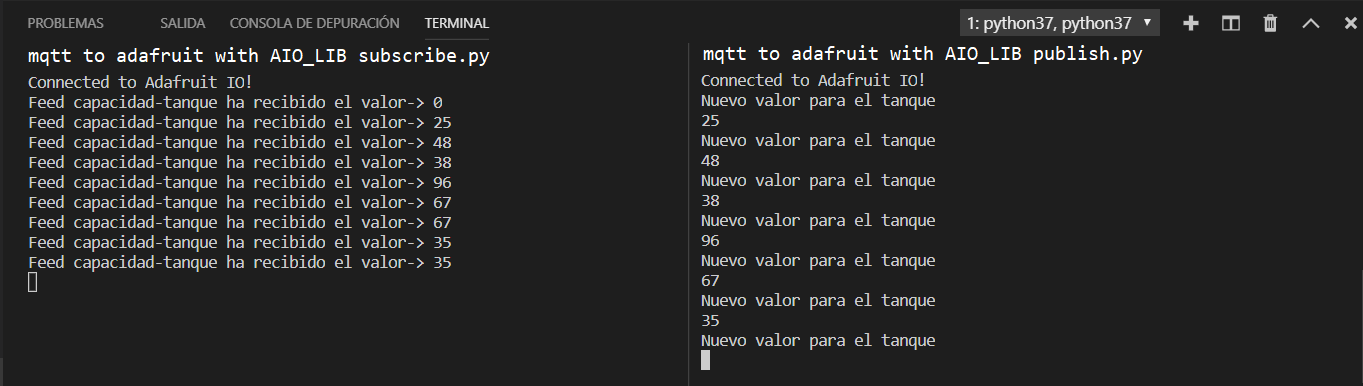
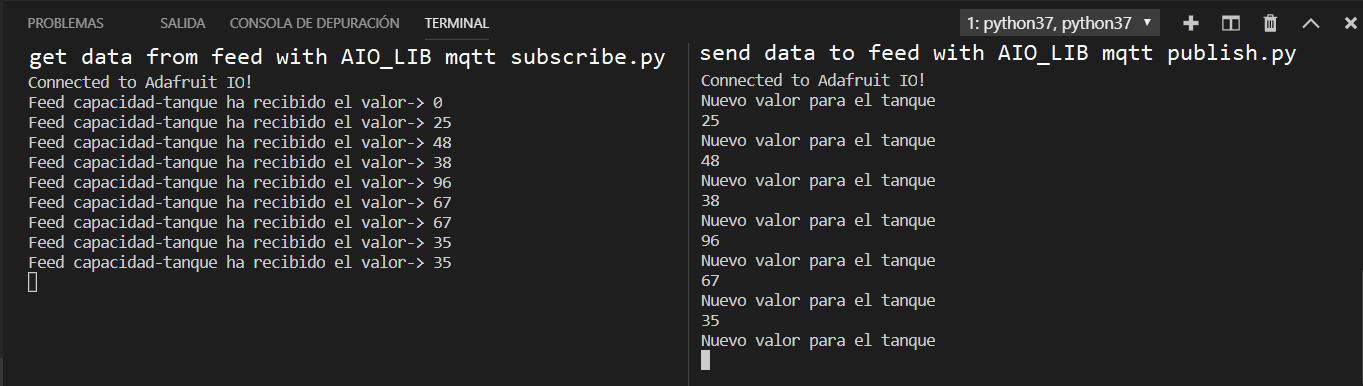
update rename files

Changed region(s): [[0.0, 0.0933, 0.9552, 0.1865]]

diff --git a/Example code/Adafruit Dashboard/ligth control with AIO_LIB Client.py b/Example code/Adafruit Dashboard/ligth control with AIO_LIB Client.py
@@ -14,8 +14,14 @@ from Adafruit_IO import Client
 
 def main():
 	if(len(sys.argv)!=3):
-		sys.stderr.write('Usage: "{0}" $AdafruitIOUsername $AdafruitIOKey\n'.format(sys.argv[0]))
+		sys.stderr.write('Usage: "{0}" $AdafruitIOUsername $AdafruitIOKey $AdafruitIOFeedForStateKey $AdafruitIOFeedForIntensityKey \n'.format(sys.argv[0]))
 		os._exit(1)
+	
+	AdafruitIOFeedUsername=sys.argv[1]
+	AdafruitIOKey=sys.argv[2]# Beware, your Key is Secret!
+	incubatorLigthStateFeedKey=sys.argv[3] # Feed key where data is received
+	incubatorLigthIntensityFeedKey=sys.argv[4] # Feed key where data is received
+
 	# var GPIO pin to show output
 	led_pin = 21
 	
@@ -29,11 +35,11 @@ def main():
 	pwm = GPIO.PWM(led_pin, 60)
 	
 	# Connect to Adafruit IO Server
-	aio=Client(username=sys.argv[1], key=sys.argv[2])
+	aio=Client(username=AdafruitIOFeedUsername, key=AdafruitIOKey)
 
 	# Link to feeds
-	incubatorLigthState=aio.feeds("incubadura0.estado-de-luz")
-	incubatorLigthIntensity=aio.feeds("incubadura0.intensidad-luminica")
+	incubatorLigthStateFeed=aio.feeds(incubatorLigthStateFeedKey)
+	incubatorLigthIntensityFeed=aio.feeds(incubatorLigthIntensityFeedKey)
 	
 	# Control vars
 	dutyValue=0
@@ -43,8 +49,8 @@ def main():
 	try:
 		while True:
 			# get feeds data from Adafruit IO
-			incubatorLigthStateData=aio.receive(incubatorLigthState.key)
-			incubatorLigthIntensityData=aio.receive(incubatorLigthIntensity.key)
+			incubatorLigthStateData=aio.receive(incubatorLigthStateFeed.key)
+			incubatorLigthIntensityData=aio.receive(incubatorLigthIntensityFeed.key)
 		   
 			# check if the received data is new
 			if(incubatorLigthStateData.updated_at!=incubatorLigthStateLastUpdate):
@@ -59,7 +65,7 @@ def main():
 					pwm.stop()
 					
 					# Set on dashboard (publish) ligth intensity in 0
-					aio.send(incubatorLigthIntensity.key, 0)
+					aio.send(incubatorLigthIntensityFeed.key, 0)
 			
 			# check if the received data is new
 			if(incubatorLigthIntensityData.updated_at!=incubatorLigthIntensityLastUpdate):
@@ -80,8 +86,8 @@ def main():
 							
 	except KeyboardInterrupt:
 		# Set default values in dashboard (publish)
-		aio.send(incubatorLigthState.key, "OFF")
-		aio.send(incubatorLigthIntensity.key, 0)
+		aio.send(incubatorLigthStateFeed.key, "OFF")
+		aio.send(incubatorLigthIntensityFeed.key, 0)
 		
 		# Stop PWM
 		pwm.stop()

diff --git a/Example code/Adafruit Dashboard/send data to feed with AIO_LIB Client.py b/Example code/Adafruit Dashboard/send data to feed with AIO_LIB Client.py
@@ -1,0 +1,43 @@
+# Import standard python modules
+import time
+import os
+import sys
+
+# Import Adafruit IO Client.
+from Adafruit_IO import Client
+
+# Define Functions for Threading
+def send_message(aioClient, feedObj, message):
+	while True:
+		if(message!=""):
+			if(message.isdigit()):
+				aioClient.send(feedObj.key, int(message))
+			else:
+				aioClient.send(feedObj.key, message)
+			time.sleep(10)
+
+if __name__ == "__main__":
+	if(len(sys.argv)!=4):
+		sys.stderr.write('Usage: "{0}" $AdafruitIOUsername $AdafruitIOKey $AdafruitIOFeedKey\n'.format(sys.argv[0]))
+		os._exit(1)
+
+	AdafruitIOFeedUsername=sys.argv[1]
+	AdafruitIOKey=sys.argv[2]# Beware, your Key is Secret!
+	AdafruitIOFeedKey=sys.argv[3] # Feed key where data is received
+
+	# Connect to Adafruit IO Server
+	aio=Client(username=AdafruitIOFeedUsername, key=AdafruitIOKey)
+
+	# Link to feeds
+	feedInstance=aio.feeds(AdafruitIOFeedKey)
+
+	# message
+	messageSend=""
+	
+	# Setup Threading, to publish message every 10 seconds
+	hilo0=threading.Thread(target=send_message, args=(feedInstance, messageSend,))
+	hilo0.start()
+
+	# Mod publish value
+	while messageSend!="x": # char 'x' to exit
+		messageSend=input("Ingrese nuevo valor para el tanque\n")

diff --git a/Example code/Adafruit Dashboard/send data to feed with paho-mqtt publish.py b/Example code/Adafruit Dashboard/send data to feed with paho-mqtt publish.py
@@ -8,14 +8,13 @@ import sys
 import paho.mqtt.client as mqtt
 
 # "global" Vars
-if(len(sys.argv)!=5):
-		sys.stderr.write('Usage: "{0}" $AdafruitIOUsername $AdafruitIOKey $AdafruitIOGroupKey $AdafruitIOFeedKey\n'.format(sys.argv[0]))
+if(len(sys.argv)!=4):
+		sys.stderr.write('Usage: "{0}" $AdafruitIOUsername $AdafruitIOKey $AdafruitIOFeedKey\n'.format(sys.argv[0]))
 		os._exit(1)
 
 AdafruitIOFeedUsername=sys.argv[1]
 AdafruitIOKey=sys.argv[2]# Beware, your Key is Secret!
-AdafruitIOGroupKey=sys.argv[3] # Group where Feed From
-AdafruitIOFeedKey=sys.argv[4]# Feed key where data receive
+AdafruitIOFeedKey=sys.argv[3]# Feed (without '.' and group key) key where data receive
 
 # Define callback functions which will be called when certain events happen.
 def on_connect(client, userdata, flags, rc):
@@ -33,7 +32,7 @@ def send_message(client):
 	while True:
 		if(client.messageSend is not None):
 			# publish topic $username/feeds/$groupKey.$feedKey
-			client.publish(AdafruitIOFeedUsername+"/feeds/"+AdafruitIOGroupKey+"."+AdafruitIOFeedKey, client.messageSend)
+			client.publish(AdafruitIOFeedUsername+"/feeds/"+AdafruitIOFeedKey, client.messageSend)
 			time.sleep(10)
 		
 if __name__ == "__main__":

diff --git a/Example code/Adafruit Dashboard/get data from feed with AIO_LIB mqtt subscribe.py b/Example code/Adafruit Dashboard/get data from feed with AIO_LIB mqtt subscribe.py
@@ -7,14 +7,13 @@ import sys
 from Adafruit_IO import MQTTClient
 
 # "global" Vars
-if(len(sys.argv)!=5):
-		sys.stderr.write('Usage: "{0}" $AdafruitIOUsername $AdafruitIOKey $AdafruitIOGroupKey $AdafruitIOFeedKey\n'.format(sys.argv[0]))
+if(len(sys.argv)!=4):
+		sys.stderr.write('Usage: "{0}" $AdafruitIOUsername $AdafruitIOKey $AdafruitIOFeedKey\n'.format(sys.argv[0]))
 		os._exit(1)
 
 AdafruitIOFeedUsername=sys.argv[1]
 AdafruitIOKey=sys.argv[2]# Beware, your Key is Secret!
-AdafruitIOGroupKey=sys.argv[3] # Group where Feed From
-AdafruitIOFeedKey=sys.argv[4]# Feed key where data receive
+AdafruitIOFeedKey=sys.argv[3]# Feed key where data receive
 
 # Define callback functions which will be called when certain events happen.
 def on_connect(client):
@@ -34,7 +33,6 @@ def on_message(client, feed_id, payload):
     # The feed_id parameter identifies the feed, and the payload parameter has
     # the new value.
 	print('Feed {0} ha recibido el valor-> {1}'.format(feed_id, payload))
-
 
 if __name__=="__main__":
 	# Create an MQTT client instance.

diff --git a/Example code/Adafruit Dashboard/get data from feed with AIO_LIB Client.py b/Example code/Adafruit Dashboard/get data from feed with AIO_LIB Client.py
@@ -1,0 +1,27 @@
+# Import standard python modules
+import time
+import os
+import sys
+
+# Import Adafruit IO Client.
+from Adafruit_IO import Client
+
+if __name__ == "__main__":
+	if(len(sys.argv)!=4):
+		sys.stderr.write('Usage: "{0}" $AdafruitIOUsername $AdafruitIOKey $AdafruitIOFeedKey\n'.format(sys.argv[0]))
+		os._exit(1)
+
+	AdafruitIOFeedUsername=sys.argv[1]
+	AdafruitIOKey=sys.argv[2]# Beware, your Key is Secret!
+	AdafruitIOFeedKey=sys.argv[3] # Feed key where data is received
+	
+	aio=Client(username=AdafruitIOFeedUsername, key=AdafruitIOKey)
+
+	# Link to feeds
+	fuelPercentageFeed=aio.feeds(AdafruitIOFeedKey)
+
+	while True:
+		# get last data from the feeds, Warning should be have any data, not empty
+		fuelPercentageData=aio.receive(fuelPercentageFeed.key)
+
+		print("Capacidad en el tanque {}%".format(fuelPercentageData.value))

diff --git a/Example code/Adafruit Dashboard/get data from feed with paho-mqtt subscribe.py b/Example code/Adafruit Dashboard/get data from feed with paho-mqtt subscribe.py
@@ -15,7 +15,7 @@ if(len(sys.argv)!=4):
 AdafruitIOFeedUsername=sys.argv[1]
 AdafruitIOKey=sys.argv[2]# Beware, your Key is Secret!
 # AdafruitIOGroupKey=sys.argv[3] # Group where Feed From
-AdafruitIOFeedKey=sys.argv[3]# Feed key where data receive
+AdafruitIOFeedKey=sys.argv[3]# complete Feed key where data receive
 
 # Define callback functions which will be called when certain events happen.
 def on_connect(client, userdata, flags, rc):

diff --git a/Example code/GPIO Pins/LED brightness.py b/Example code/GPIO Pins/LED brightness.py
@@ -2,7 +2,10 @@
 import time
 
 # Import RPi.GPIO library
-import RPi.GPIO as GPIO     
+try:
+    import RPi.GPIO as GPIO
+except RuntimeError:
+    print("Error importing RPi.GPIO!  This is probably because you need superuser privileges.  You can achieve this by using 'sudo' to run your script")   
 
 # Define Function "main", way to manage errors
 def main():

diff --git a/Example code/Adafruit Dashboard/README.md b/Example code/Adafruit Dashboard/README.md
@@ -2,16 +2,16 @@
 ## Some about Adafruit
 Adafruit is a Open Source Hardware Company, this company designs, manufactures and sells a number of electronics products, electronics components, tools and accessories. Also have a software Tools to develop and usage data analytic in Adafruit IO, here receive data in "Feeds" and store for several uses, this examples provides:
 
-## Get and send data local system
-The example code [mqtt to simulated topic publish.py](/Example&#32;code/Adafruit&#32;Dashboard/mqtt&#32;to&#32;simulated&#32;topic&#32;publish.py) take data from simulated sensor (keyboard) and make a publish every 10 seconds, the data published is received by example code [mqtt to simulated topic subscribe.py](/Example&#32;code/Adafruit&#32;Dashboard/mqtt&#32;to&#32;simulated&#32;topic&#32;subscribe.py). These example code use a Paho-mqtt library to publish and subscribe to a certain topic (to simulate feed sharing), designed for test data on local system.
+## Send and get data to simulated local system
+The example code [send data to simulated feed with paho-mqtt publish.py](/Example&#32;code/Adafruit&#32;Dashboard/send&#32;data&#32;to&#32;simulated&#32;feed&#32;with&#32;paho-mqtt&#32;publish.py) take data from simulated sensor (keyboard) and make a publish every 10 seconds, the data published is received by example code [get data form simulated feed with paho-mqtt subscribe.py](/Example&#32;code/Adafruit&#32;Dashboard/get&#32;data&#32;from&#32;simulated&#32;feed&#32;with&#32;paho-mqtt&#32;subscribe.py). These example code use a Paho-mqtt library to publish and subscribe to a certain topic (to simulate feed sharing), designed for test data on local system.
 ### Run in terminal
-#### Subscribe
+#### Get data
 ```bash
-python3 mqtt to simulated topic subscribe.py "$hostAddress"
+python3 "get data form simulated feed with paho-mqtt subscribe.py" "$hostAddress"
 ```
-#### Publish
+#### Send data
 ```bash
-python3 mqtt to simulated topic subscribe.py "$hostAddress"
+python3 "send data to simulated feed with paho-mqtt publish.py" "$hostAddress"
 ```
 Where *$hostAddress* is the Broker Server Addres, for test can use a local server or a public server.
 
@@ -19,20 +19,19 @@ Where *$hostAddress* is the Broker Server Addres, for test can use a local serve
 #### Terminal
 ![Execute preview - simulated topic](/Images/Example&#32;code/Execute&#32;preview&#32;simulated&#32;topic.png)
 
-## Feed sharing to Adafruit IO Server using Paho-mqtt
-The example code [mqtt to adafruit publish.py](/Example&#32;code/Adafruit&#32;Dashboard/mqtt&#32;to&#32;adafruit&#32;publish.py) take data from simulated sensor (keyboard) and make a publish every 10 seconds, the data published is received by Broker server **Adafruit IO** and stored in respective Feeds, the example code [mqtt to adafruit subscribe.py](/Example&#32;code/Adafruit&#32;Dashboard/mqtt&#32;to&#32;adafruit&#32;subscribe.py) can catch every publish data. These example code use a Paho-mqtt library to publish and subscribe to topics that follow the Adafruit IO Group and Feed format *Username/feeds/GroupFeedKey.FeedKey* (Manually).
+## Send and get data to Adafruit IO feeds with Paho-mqtt
+The example code [send data to feed with paho-mqtt publish.py](/Example&#32;code/Adafruit&#32;Dashboard/send&#32;data&#32;to&#32;feed&#32;with&#32;paho-mqtt&#32;publish.py) take data from simulated sensor (keyboard) and make a publish every 10 seconds, the data published is received by Broker server **Adafruit IO** and stored in respective Feeds, the example code [get data from feed with paho-mqtt subscribe.py](/Example&#32;code/Adafruit&#32;Dashboard/get&#32;data&#32;from&#32;feed&#32;with&#32;paho-mqtt&#32;subscribe.py) get data from every publish data (only on the moment when this is publish). These example code use a Paho-mqtt library to publish and subscribe to topics that follow the Adafruit IO Group and Feed format *Username/feeds/GroupFeedKey.FeedKey* (Manually).
 
-To do the publish require Authentication on Broker server with Adafruit IO Username and Adafruit IO Secret Key, designed for test of feed sharing in Adafruit IO Feeds.
+Connect to Broker require Authentication on server with Adafruit IO Username and Adafruit IO Secret Key, designed for test of send data to certain topics with paho-mqtt and receive data in adafruit feed.
 ### Run in terminal
-#### Subscribe
+#### Get data
 ```bash
-python3 mqtt to simulated topic subscribe.py "$AdafruitIOUsername" "$AdafruitIOKey" "$AdafruitIOGroupKey" "$AdafruitIOFeedKey"
+python3 "get data from feed with paho-mqtt subscribe.py" "$AdafruitIOUsername" "$AdafruitIOKey" "$AdafruitIOGroupKey" "$AdafruitIOFeedKey"
 ```
-#### Publish
+#### Send data
 ```bash
-python3 mqtt to simulated topic subscribe.py "$AdafruitIOUsername" "$AdafruitIOKey" "$AdafruitIOFeedKey"
+python3 "send data to feed with paho-mqtt publish.py" "$AdafruitIOUsername" "$AdafruitIOKey" "$AdafruitIOFeedKey"
 ```
-Where *$AdafruitIOUsername* is the user in Adafruit IO, *$AdafruitIOKey* is the Secret Key (this can get in Adafruit IO Dashboard on link *View AIO Key*), *AdafruitIOGroupKey* and *AdafruitIOFeedKey* are in Feed Table in Adafruit IO Account
 
 ### Run preview
 #### Terminal
@@ -41,20 +40,19 @@ Where *$AdafruitIOUsername* is the user in Adafruit IO, *$AdafruitIOKey* is the 
 ![Execute result - adafruit paho](/Images/Example&#32;code/Execute&#32;result&#32;dashboard&#32;adafruit&#32;paho.png)
 
 
-## Feed sharing to Adafruit IO Server using Adafruit IO Library in Python
-[mqtt to adafruit with AIO_LIB publish.py](/Example&#32;code/Adafruit&#32;Dashboard/mqtt&#32;to&#32;adafruit&#32;with&#32;AIO_LIB&#32;publish.py) take data from simulated sensor (keyboard) and make a publish every 10 seconds, the data published is received by Broker server **Adafruit IO** and stored in respective Feeds, the example code [mqtt to adafruit with AIO_LIB subscribe.py](/Example&#32;code/Adafruit&#32;Dashboard/mqtt&#32;to&#32;adafruit&#32;&#32;with&#32;AIO_LIB&#32;subscribe.py) can catch every publish data. These example code use a Adafruit IO MQTT client, to do publish is required Adafruit IO Username, Adafruit IO, Adafruit IO Secret Key, to specify the feed require Group Feed Key and Feed Key; the Username is the user in Adafruit IO, GropuFeedKey and FeedKey are in Feed Table in Adafruit IO Account.
+## Send and get data to Adafruit IO feeds with Adafruit IO MQTT Library in Python
+[send data to feed with AIO_LIB mqtt publish.py](/Example&#32;code/Adafruit&#32;Dashboard/send&#32;data&#32;to&#32;feed&#32;with&#32;AIO_LIB&#32;mqtt&#32;publish.py) take data from simulated sensor (keyboard) and make a publish every 10 seconds, the data published is received by Broker server **Adafruit IO** and stored in respective Feeds, the example code [get data from feed with AIO_LIB mqtt subscribe.py](/Example&#32;code/Adafruit&#32;Dashboard/get&#32;data&#32;from&#32;feed&#32;with&#32;AIO_LIB&#32;mqtt&#32;subscribe.py) get data from every publish (only on the moment when this is publish). These example code use a Adafruit IO MQTT client, to do publish is required Adafruit IO Username, Adafruit IO Secret Key, to specify the feed require Group Feed Key and Feed Key; the Username is the user in Adafruit IO, GropuFeedKey and FeedKey are in Feed Table of Adafruit IO Account.
 
-The publish follow certain protocol (execute by library, same protocol to [Adafruit IO Server using Paho-mqtt](#feed-sharing-to-adafruit-io-server-using-paho-mqtt) but Automatically), designed for test of feed sharing in Adafruit IO Feeds.
+Connect to Broker require Authentication on server with Adafruit IO Username and Adafruit IO Secret Key, the publish follow certain protocol (execute by library, same protocol to [Send and get data to Adafruit IO feeds with Paho-mqtt](#send-and-get-data-to-adafruit-io-feeds-with-paho-mqtt) but Automatically), designed for test of send data to Adafruit IO Feeds with properly mqtt Adafruit IO library.
 ### Run in Terminal
-#### Subscribe
+#### Get data
 ```bash
-python3 mqtt to simulated topic subscribe.py "$AdafruitIOUsername" "$AdafruitIOKey" "$AdafruitIOGroupKey" "$AdafruitIOFeedKey"
+python3 "get data from feed with AIO_LIB mqtt subscribe.py" "$AdafruitIOUsername" "$AdafruitIOKey" "$AdafruitIOGroupKey" "$AdafruitIOFeedKey"
 ```
-#### Publish
+#### Send data
 ```bash
-python3 mqtt to simulated topic subscribe.py "$AdafruitIOUsername" "$AdafruitIOKey" "$AdafruitIOFeedKey"
+python3 "send data to feed with AIO_LIB mqtt publish.py" "$AdafruitIOUsername" "$AdafruitIOKey" "$AdafruitIOFeedKey"
 ```
-Where *$AdafruitIOUsername* is the user in Adafruit IO, *$AdafruitIOKey* is the Secret Key (this can get in Adafruit IO Dashboard on link *View AIO Key*), *AdafruitIOGroupKey* and *AdafruitIOFeedKey* are in Feed Table in Adafruit IO Account
 
 ### Run preview
 #### Terminal
@@ -62,7 +60,31 @@ Where *$AdafruitIOUsername* is the user in Adafruit IO, *$AdafruitIOKey* is the 
 #### Adafruit IO - Feed Data
 ![Execute result - adafruit AIO LIB](/Images/Example&#32;code/Execute&#32;result&#32;dashboard&#32;adafruit&#32;AIO&#32;library.png)
 
+## Send data to Adafruit IO feeds with Adafruit IO Client Library in Python
+[send data to feed with AIO_LIB Client.py](/Example&#32;code/Adafruit&#32;Dashboard/send&#32;data&#32;to&#32;feed&#32;with&#32;AIO_LIB&#32;Client.py) take data from simulated sensor (keyboard) and make a publish every 10 seconds, the data is send with properly method of Adafruit IO API is received by Broker server **Adafruit IO** and stored in respective Feeds, the last feed data is retreive with method *receive* on the example code [get data from feed with AIO_LIB Client.py](/Example&#32;code/Adafruit&#32;Dashboard/get&#32;data&#32;from&#32;fedd&#32;with&#32;AIO_LIB&#32;Client.py) take per iteration the last value, if feed is empty this generate error 404, the functions in these example code require Adafruit IO Username, Adafruit IO Secret Key, to specify the feed require Feed Key; the Username is your username in Adafruit IO, FeedKey are in Feed Table of Adafruit IO Account.
+
+Connect to Broker require Authentication on server with Adafruit IO Username and Adafruit IO Secret Key, designed for test of send data to adafruit IO Feeds with Adafruit IO library properly methods.
+
+### Run in terminal
+#### Get data
+```bash
+python3 "get data from feed with AIO_LIB Client.py" "$AdafruitIOUsername" "$AdafruitIOKey" "$AdafruitIOFeedKey"
+```
+
+#### Send data
+```bash
+python3 "send data to feed with AIO_LIB Client.py" "$AdafruitIOUsername" "$AdafruitIOKey" "$AdafruitIOFeedKey"
+```
+
+### Run preview
+#### Terminal
+![Execute preview - adafruit AIO LIB Properly](/Images/Example&#32;code/Execute&#32;preview&#32;adafruit&#32;AIO&#32;library&#32;properly.png)
+#### Adafruit IO - Feed Data
+![Execute result - adafruit AIO LIB Properly](/Images/Example&#32;code/Execute&#32;result&#32;dashboard&#32;adafruit&#32;AIO&#32;library.png)
+
+
 # References
 * [Adafruit IO Library - MQTT API Documentation](https://learn.adafruit.com/welcome-to-adafruit-io/mqtt-api-documentation-2)
 * [Adafruit IO Library - Usage Example](https://adafruit-io-python-client.readthedocs.io/en/latest/feed-sharing.html#usage-example)
 * [Adafruit IO Groups, Feeds, and Proper MQTT Topics](https://io.adafruit.com/blog/notebook/2017/11/02/groups-feeds-and-fixing-mqtt-topics/))
+* [Adafruit IO Home: Lights and Temperature - Learn all about home automation by building a cardboard's](https://learn.adafruit.com/adafruit-io-house-lights-and-temperature/python-code)

diff --git a/Example code/GPIO Pins/README.md b/Example code/GPIO Pins/README.md
@@ -34,7 +34,7 @@ The Device have 26 GPIO pins, something of those have other functions such as SD
 To read this table the 5.0v are in rigth of raspberry (near to border)
 
 ## Testing GPIO Pins
-GPIO Pins can use with system sentences or programing language such as python, the example code [gpio example.py](Example&#32;code/GPIO&#32;Pins/gpio&#32;example.py) test all GPIO Pins, on the execute turn on the ascendant of GPIO Pin Number and turn off the descendant GPIO Pin Number. This example use [RPi.GPIO](https://sourceforge.net/p/raspberry-gpio-python/wiki/Home/) Library (exist others for that).
+GPIO Pins can use with system sentences or programing language such as python, the example code [LED on and off.py](Example&#32;code/GPIO&#32;Pins/LED&#32;on&#32;and&#32;off.py) test all GPIO Pins with simple digital signals, on the execute turn on the ascendant of GPIO Pin Number and turn off the descendant GPIO Pin Number. This example use [RPi.GPIO](https://sourceforge.net/p/raspberry-gpio-python/wiki/Home/) Library (exist others for that), RPi.GPIO can use PWM technique, this is usefull for change ligth intensity, modulate motor speed and more, the example code [LED brightness.py](Example&#32;code/GPIO&#32;Pins/LED&#32;brightness.py) turn on a LED in GPIO 21 with low brigtness, this increment 1% per 0.01 seconds and when it reaches 100% this decrease 1% until 0%.
 
 ### Electronical components
 * Raspberry pi
@@ -42,13 +42,15 @@ GPIO Pins can use with system sentences or programing language such as python, t
 * 26 resistor 220Ohms-1kOhms
 
 ### Graphic circuit
-![GPIO pin Test LEDs](/Images/Circuits/GPIO&#32;pins_bb.png)
+![GPIO pin Test LEDs](/Images/Circuits/LED&#32;on&#32;and&#32;off_bb.png)
 
 ### Run in termal
 ```bash
-python3 "gpio example.py"
+python3 "LED on and off.py"
 ```
-
+```bash
+python3 "LED brightness.py"
+```
 # References
 * [GPIO Official Documentation](https://www.raspberrypi.org/documentation/usage/gpio/)
 * [GPIO Zero Offical Documentation](https://www.raspberrypi.org/documentation/usage/gpio/python/README.md)
